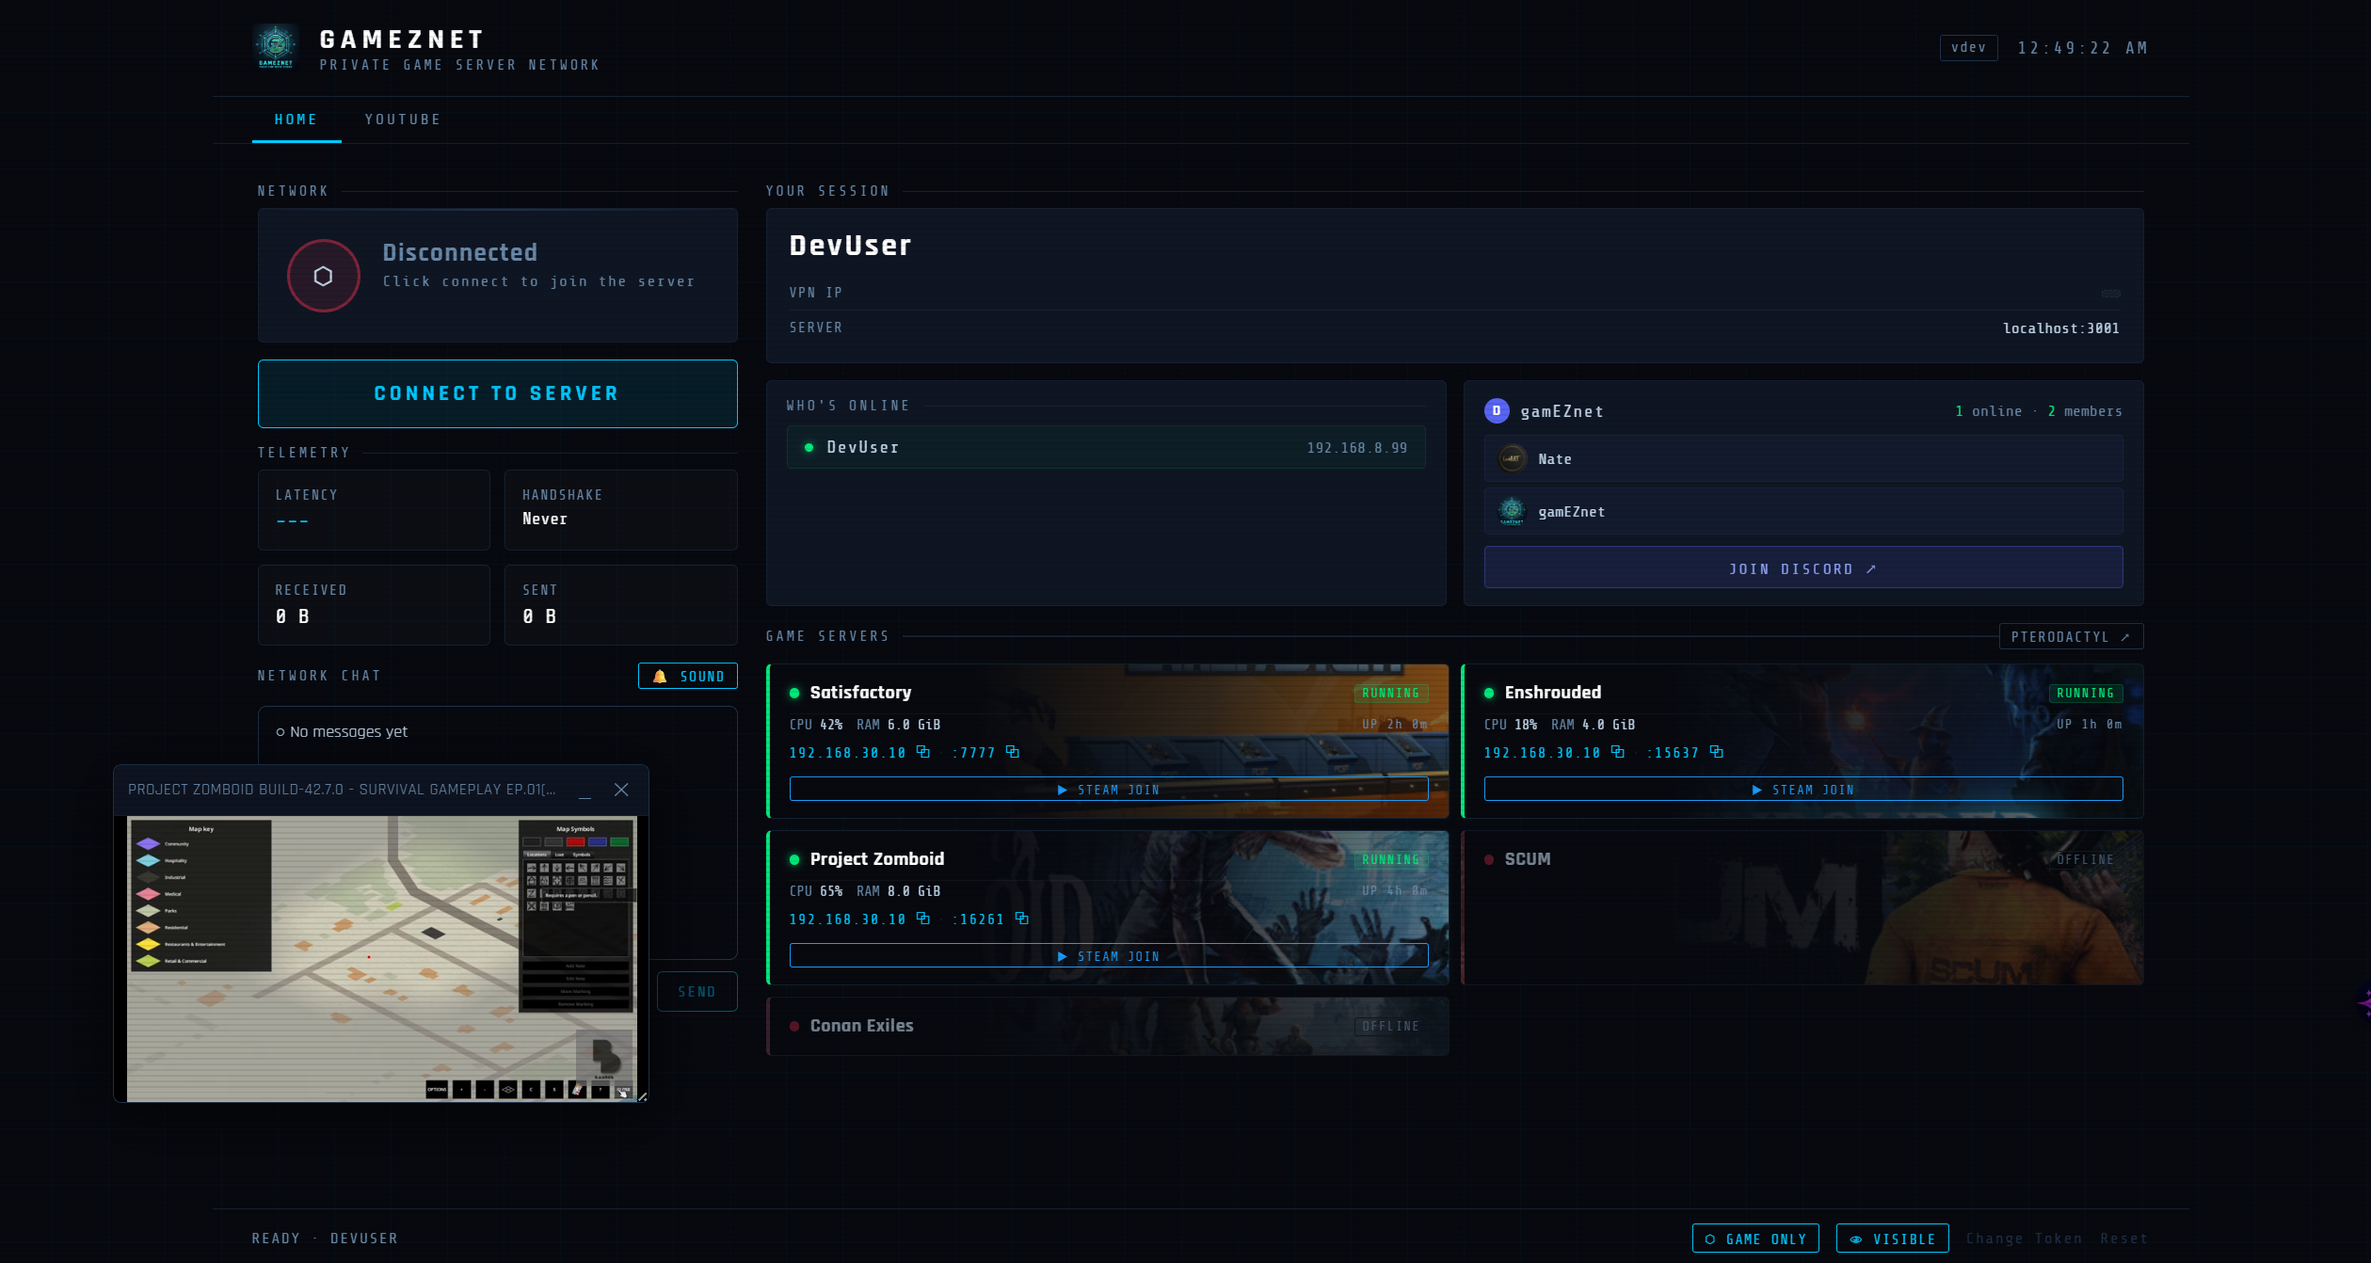
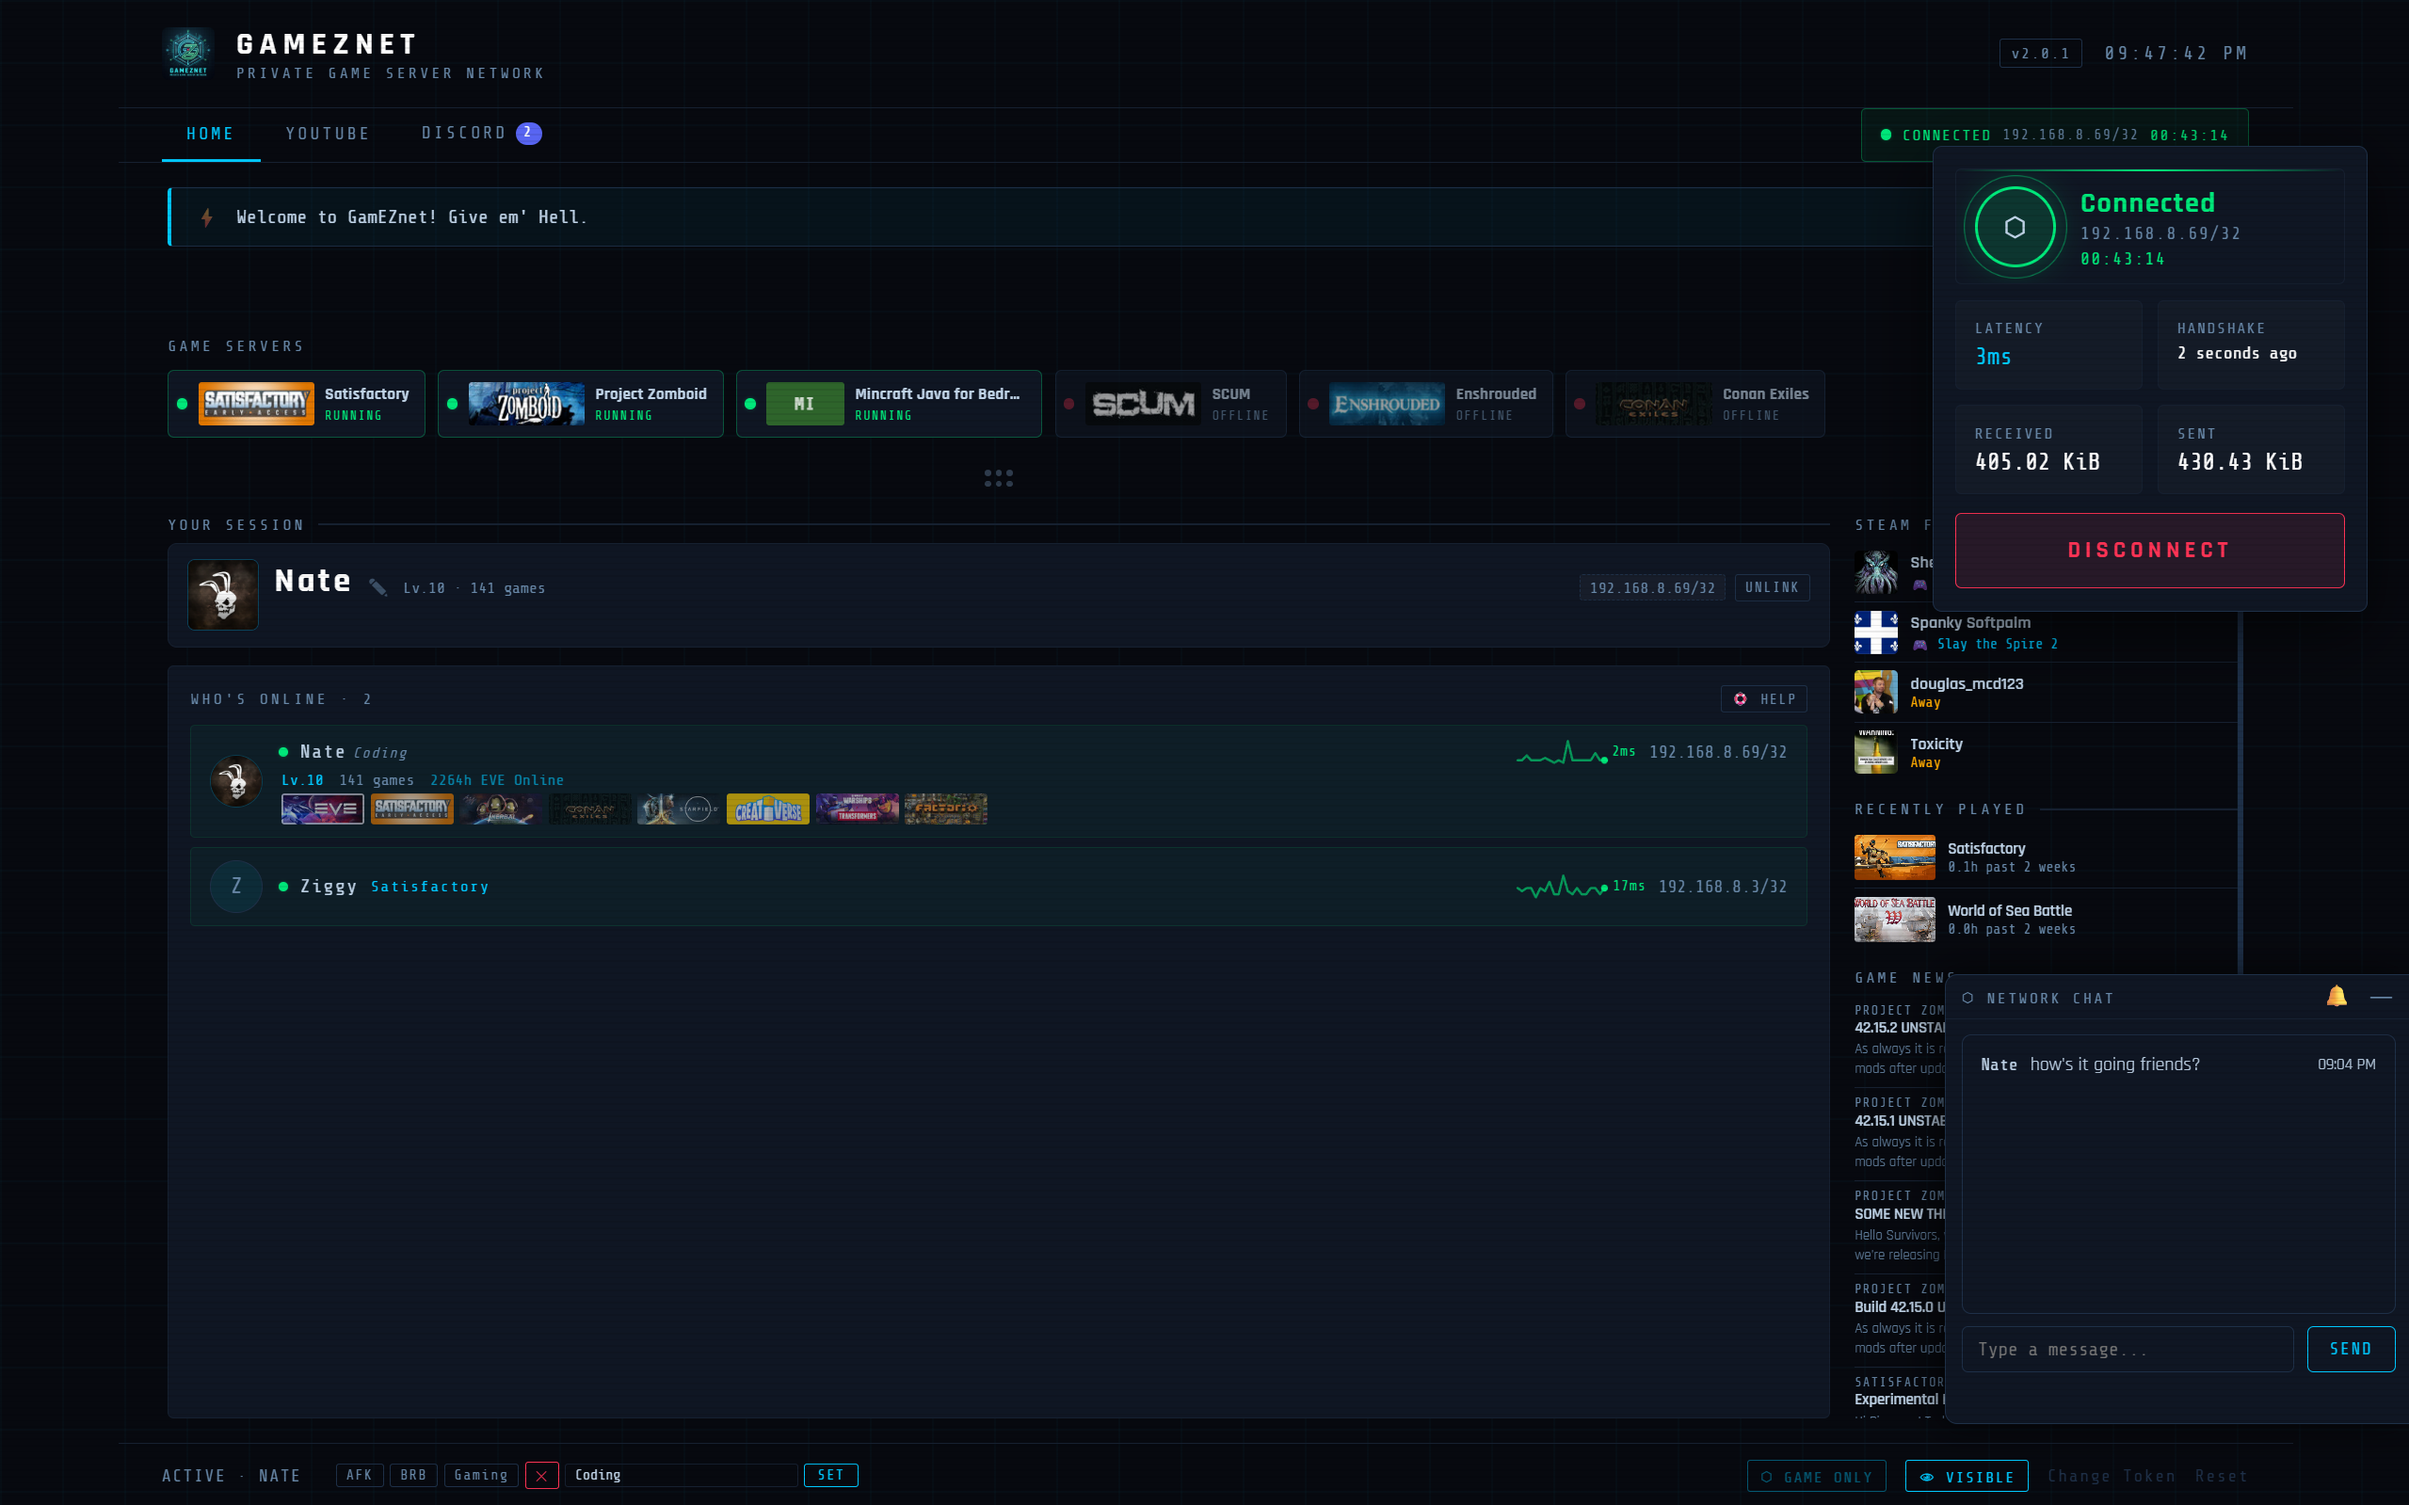
fix: condense session header to single line + update screenshots v2.0.1
- Session header name/stats/IP/unlink now on one flex row
- README updated with 3 new screenshots

diff --git a/README.md b/README.md
@@ -3,6 +3,8 @@
 **Private game server network — secure, invite-only, one command to join.**
 
 ![GamezNET](static/screenshot.png)
+![GamezNET](static/screenshot2.png)
+![GamezNET](static/screenshot3.png)
 
 ---
 
